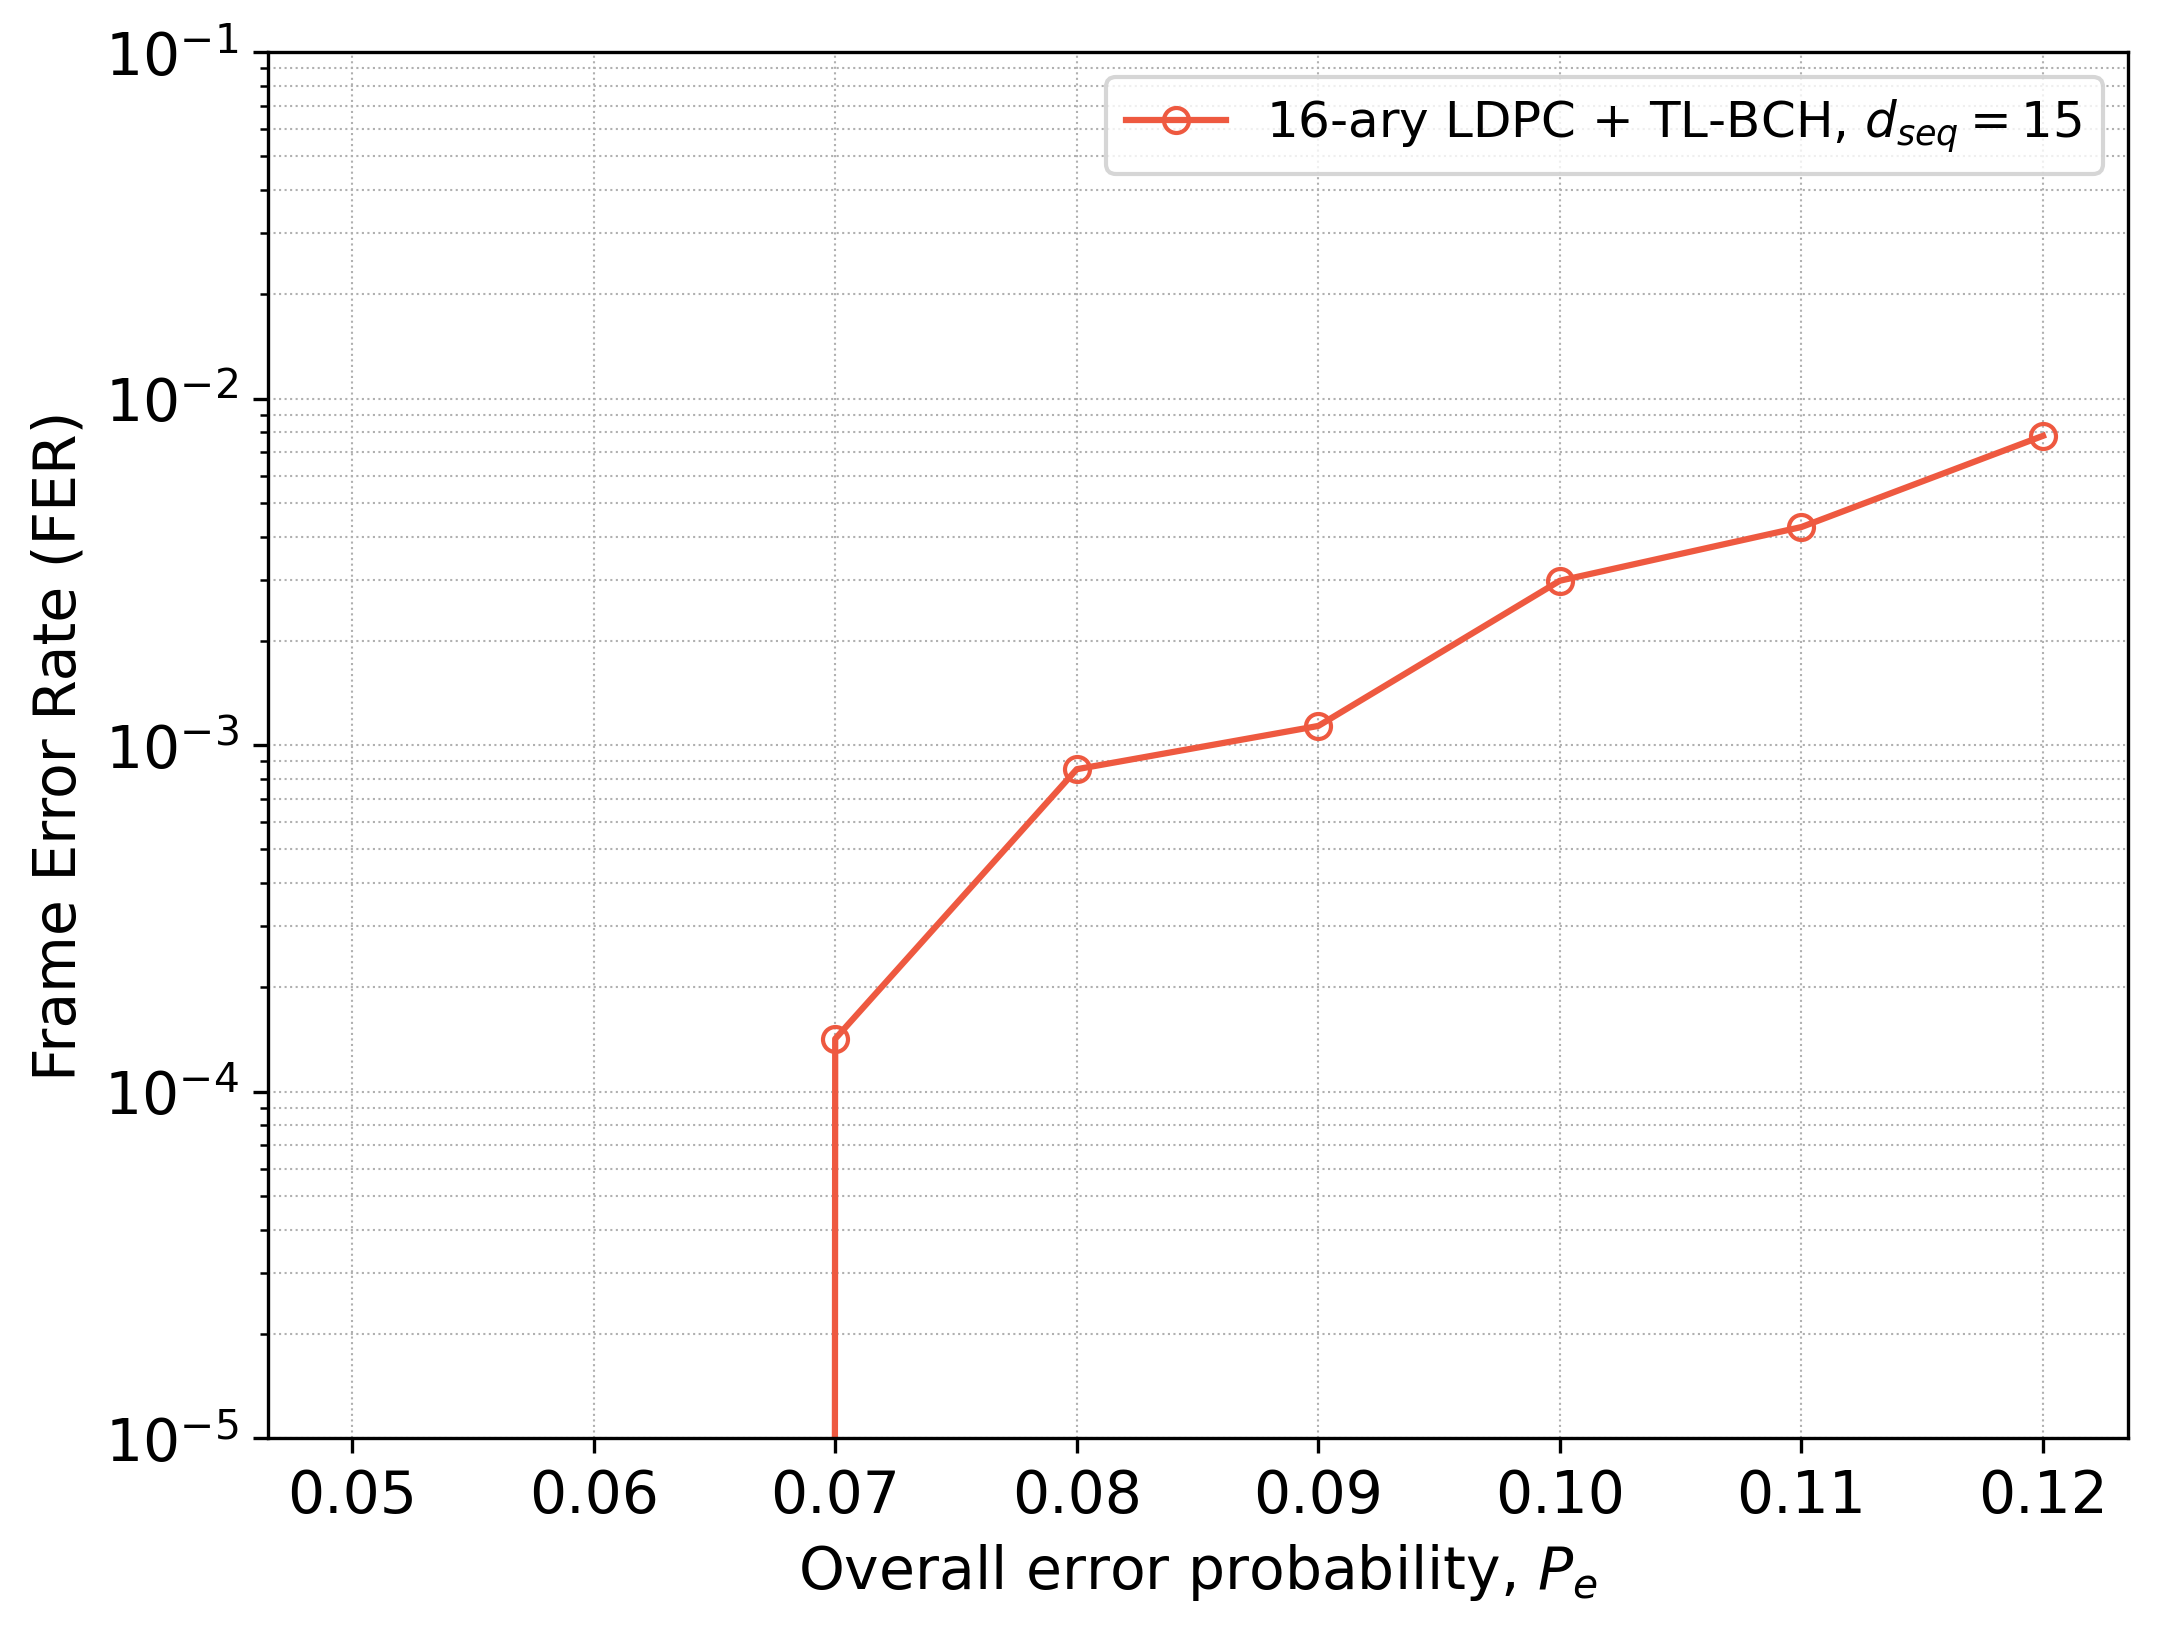
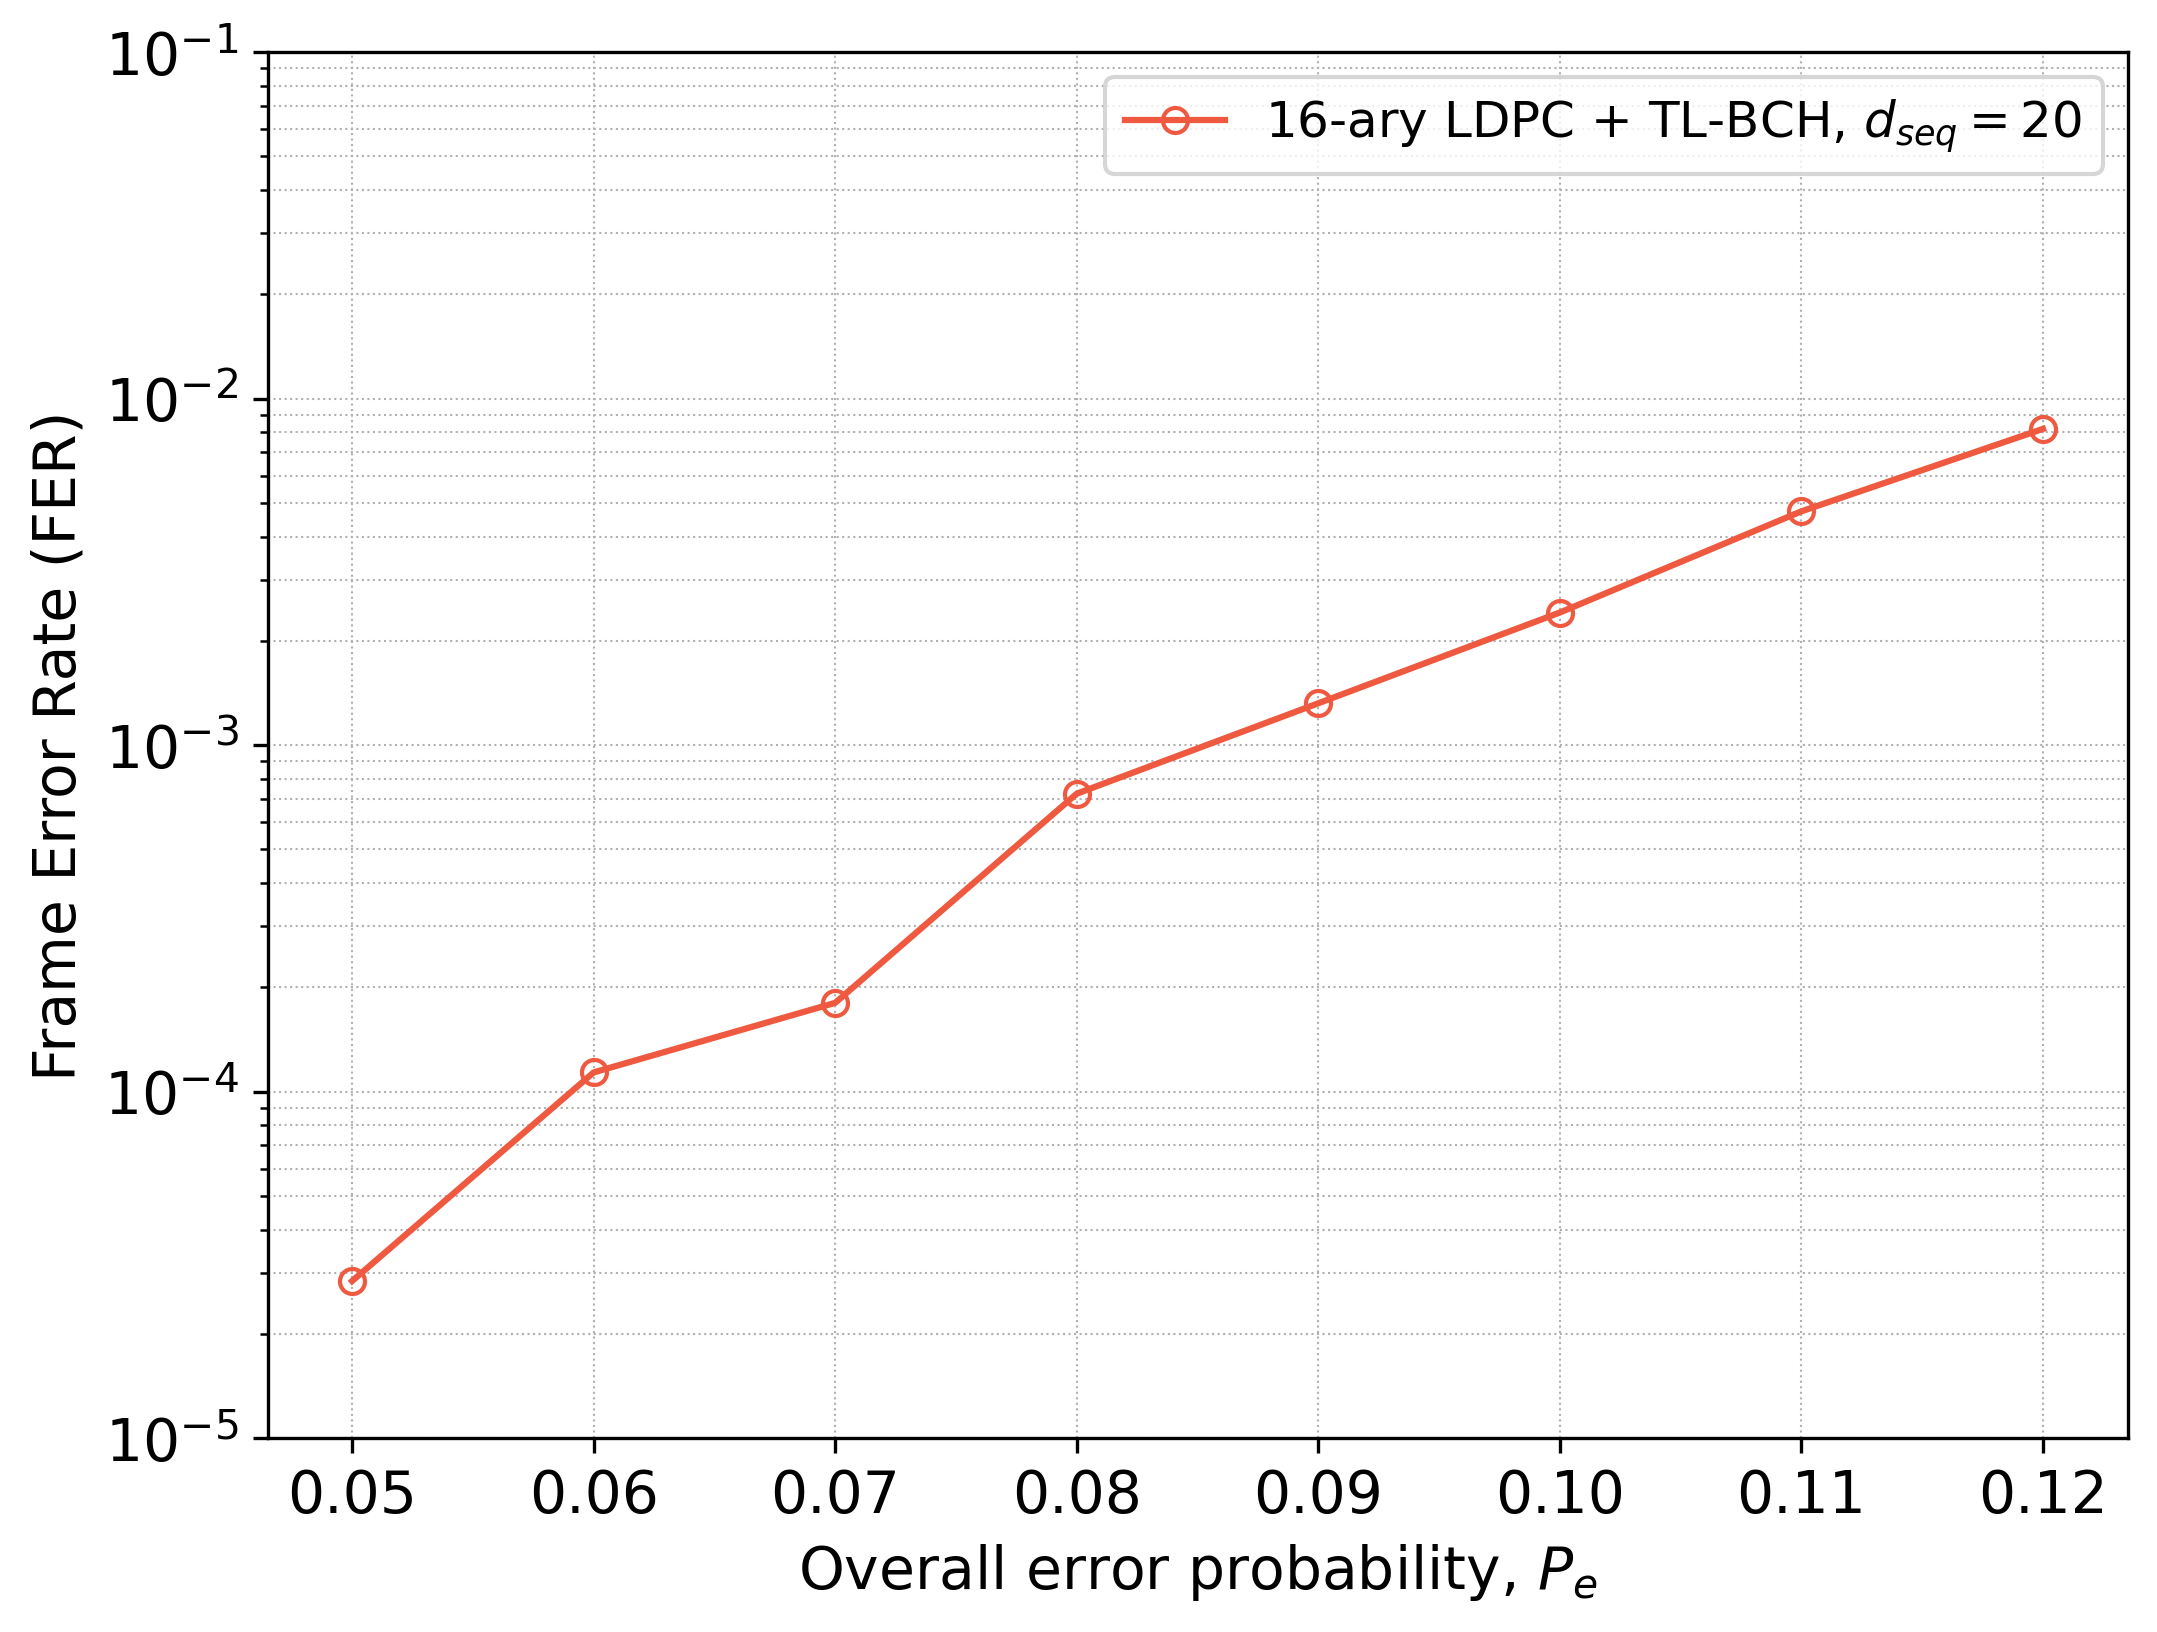
同步 论文1 的信道参数

diff --git a/python/Inner_Code_DNA_Channel_Simulation.py b/python/Inner_Code_DNA_Channel_Simulation.py
@@ -47,11 +47,20 @@ def DNAChannel(CodeWrdsTx, Pe, sequencingDepth, innerRedundancy):
     loss_sequence_num = 0  # Number of lost sequences during the DNA storage channel
     ##=============Default Channel parameter=======
     arg = DEFAULT_PASSER
-    arg.syn_number = 30  # Synthesis number
+    arg.syn_number = 10  # Synthesis number
+    arg.syn_yield = 1
+    arg.syn_sub_prob = 0.57 * PE / 6
+    arg.syn_ins_prob = 0
+    arg.syn_del_prob = 0
+
+    arg.decay_er = 0
     arg.decay_loss_rate = 0.43 * Pe
+
     arg.pcrc = 2  # PCR cycle number
-    arg.pcrp = 0.9  # PCR efficiency
-    ps_seq = 0.57 * Pe / 3  # 测序阶段单向替换概率
+    arg.pcrp = 0.8  # PCR efficiency
+    arg.pcrBias = 0.05
+    
+    ps_seq = 0.57 * Pe / 6  # 测序阶段单向替换概率
     arg.seq_TM = genTm(ps_seq)
     arg.seq_depth = sequencingDepth  # Sequencing Depth
     N_c = np.ceil((2 * arg.pcrp) ** (arg.pcrc))  # The copy times during PCR
